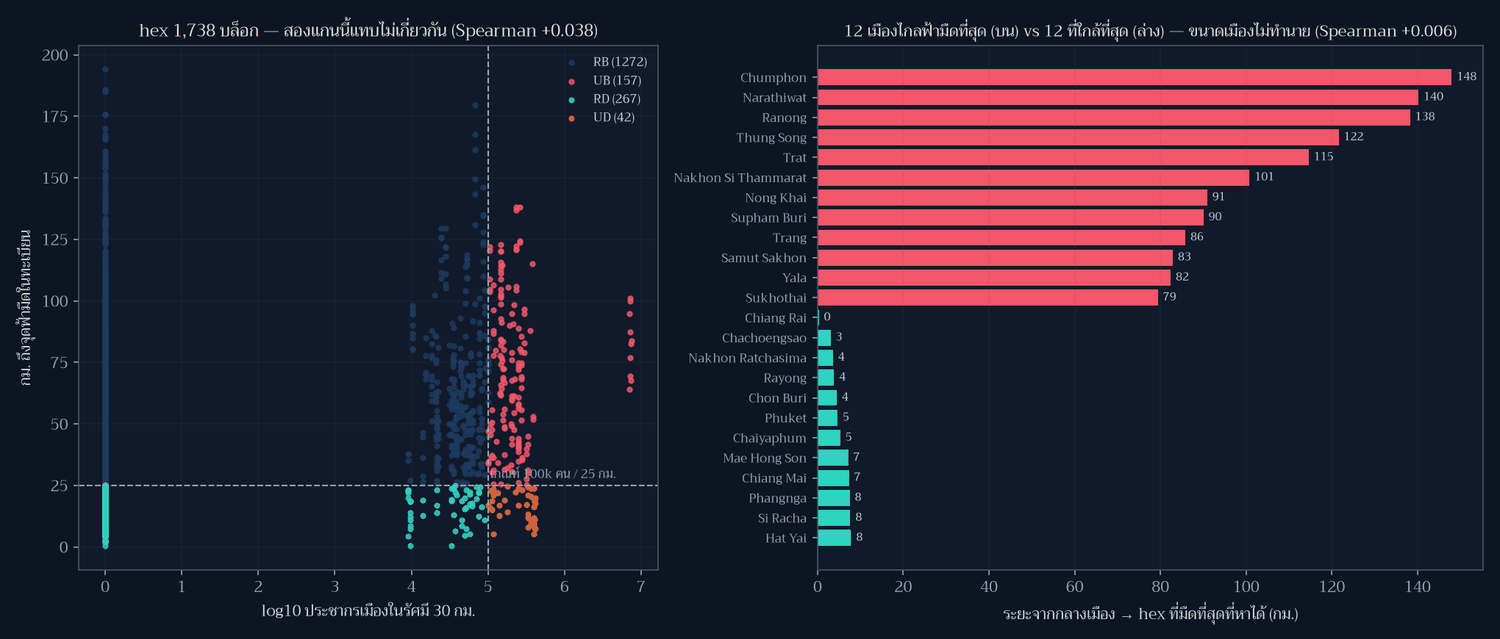
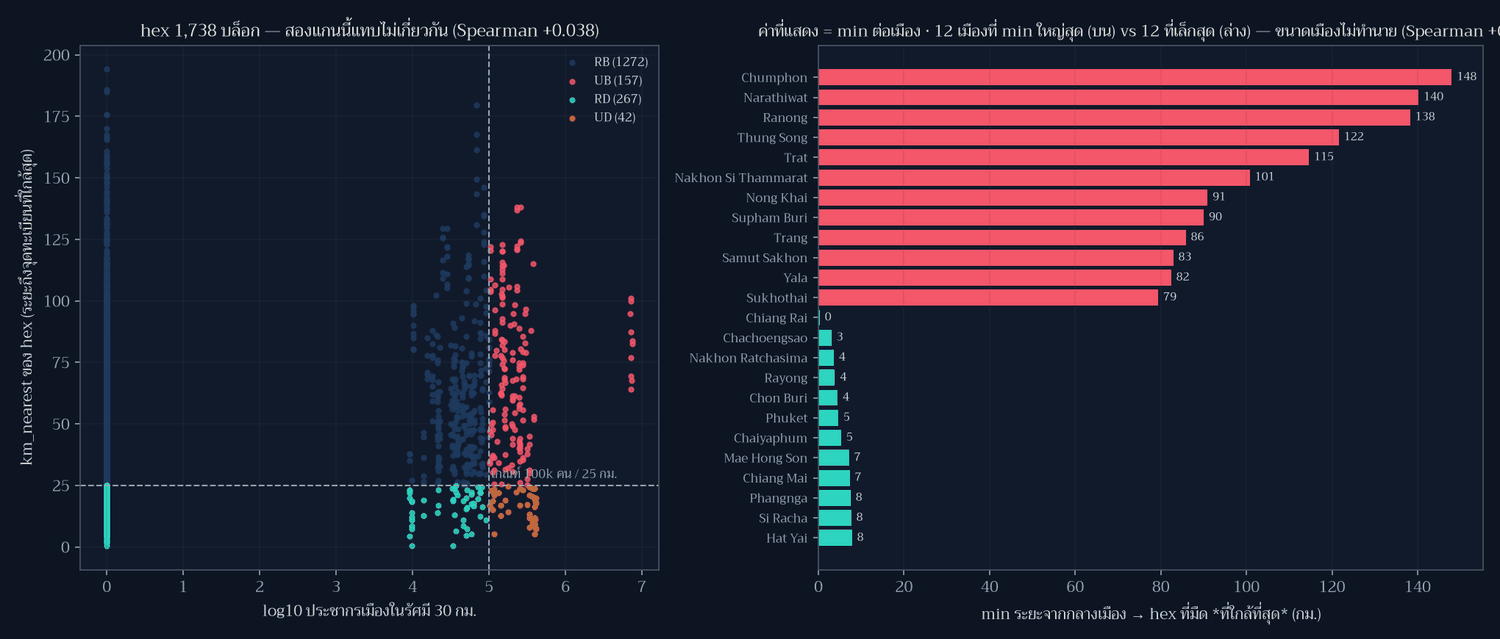
Built site for gh-pages

diff --git a/posts/day09-urban-rural/index.html b/posts/day09-urban-rural/index.html
@@ -284,17 +284,17 @@ pre > code.sourceCode > span > a:first-child::before { text-decoration: underlin
 </tbody>
 </table>
 <p>แปลว่าความมืดกับประชากรไม่ได้ <em>ต่อต้าน</em> กัน (correlation ≈ 0) แต่ <strong>ไม่ได้อยู่ที่เดียวกัน</strong> — จุดที่มืดกระจายแบบสุ่มต่อความหนาแน่นคน เพราะทะเบียน 83 จุดถูกตั้งด้วยเหตุผลอื่น (อุทยานฯ หอดูดาว สถานศึกษา) ไม่ใช่ด้วยจำนวนประชากรรอบข้าง ตามที่ Day 3 เคยพบว่าไม่มีที่ใดไกลเกิน 200 กม.</p>
-<p><strong>3. ระยะเดินทางจากกลางเมืองสู่ฟ้ามืด</strong> (มัธยฐาน 39.2 กม.)</p>
+<p><strong>3. ระยะจากกลางเมืองสู่ hex ที่มืด <em>ที่ใกล้ที่สุด</em></strong> — ค่าต่อเมืองคือ <code>min</code> เหนือ hex ที่มืด ทั้งหมด 309 เซลล์ (เกณฑ์ <code>km_nearest ≤ 25</code>) · <strong>มัธยฐานของ min = 39.2 กม.</strong></p>
 <table class="caption-top table">
 <thead>
 <tr class="header">
 <th>เมือง</th>
-<th>ระยะสู่ hex มืด</th>
+<th><code>min</code> ระยะสู่ hex มืด</th>
 </tr>
 </thead>
 <tbody>
 <tr class="odd">
-<td>เชียงราย (ใกล้ที่สุด)</td>
+<td>เชียงราย (<code>min</code> เล็กที่สุด)</td>
 <td><strong>0.3 กม.</strong> — ตัวเมืองติดเขตฟ้ามืดเลย</td>
 </tr>
 <tr class="even">
@@ -302,14 +302,20 @@ pre > code.sourceCode > span > a:first-child::before { text-decoration: underlin
 <td>63.3 กม.</td>
 </tr>
 <tr class="odd">
-<td>ชุมพร (ไกลที่สุด)</td>
+<td>ชุมพร (<code>min</code> ใหญ่ที่สุด)</td>
 <td><strong>148.0 กม.</strong></td>
 </tr>
 </tbody>
 </table>
 <p>15 เมืองจาก 79 อยู่ชิด hex มืดภายใน 10 กม. และมี 6 เมืองที่ต้องไปไกลเกิน 100 กม. และในกลุ่มที่ <em>ใกล้ที่สุด</em> ก็มีเมืองใหญ่อยู่ด้วย: ฉะเชิงเทรา 3.0 · นครราชสีมา 3.6 · ระยอง 3.9 · ชลบุรี 4.5 กม. — แปลว่า “เมืองกับฟ้ามืดอยู่ด้วยกันได้” ถ้าจุดทะเบียนถูกวางไว้ใกล้เมือง</p>
-<p>ข้อสังเกตที่ผมไม่คาดคิด: เมืองที่ไกลฟ้ามืดที่สุด 5 ใน 6 แห่งอยู่ภาคใต้ (ชุมพร 148 · นราธิวาส 140 · ระนอง 138 · ทุ่งสง 122 · นครศรีธรรมราช 101 กม.) อีกแห่งคือตราด 115 กม. และส่วนใหญ่เป็นเมืองเล็ก (ระนอง 24,561 คน · ชุมพร 85,686 คน) เพราะทะเบียนจุดฟ้ามืดลงใต้บางมาก — <strong>นี่คือปัญหาของ “ทะเบียน” ไม่ใช่ปัญหาของ “เมือง”</strong></p>
+<p>ข้อสังเกตที่ผมไม่คาดคิด: เมืองที่ <code>min</code> ใหญ่ที่สุด 6 แห่ง มี 5 เมืองอยู่ภาคใต้ (ชุมพร 148 · นราธิวาส 140 · ระนอง 138 · ทุ่งสง 122 · นครศรีธรรมราช 101 กม.) อีกแห่งคือตราด 115 กม. และส่วนใหญ่เป็นเมืองเล็ก (ระนอง 24,561 คน · ชุมพร 85,686 คน) เพราะทะเบียนจุดฟ้ามืดลงใต้บางมาก — <strong>นี่คือปัญหาของ “ทะเบียน” ไม่ใช่ปัญหาของ “เมือง”</strong></p>
 <p><img src="day09_compare.png" class="img-fluid"></p>
+<section id="วาดวย-min-mean-เพม-10-พ.ย.-2569" class="level3">
+<h3 class="anchored" data-anchor-id="วาดวย-min-mean-เพม-10-พ.ย.-2569">ว่าด้วย min / mean (เพิ่ม 10 พ.ย. 2569)</h3>
+<p>ค่าที่แสดงในส่วนนี้เป็น <strong><code>min</code> ต่อเมือง</strong> — “จากกลางเมืองนี้ ไป hex ที่มืด hex ที่ใกล้ที่สุดไกลแค่ไหน” ซึ่งตอบคำถามแบบประชาชน (“ผมต้องขับไกลแค่ไหนถึงจะเจอฟ้ามืด”) แต่ <strong>ไม่ใช่</strong> ค่าเดียวกับที่ Day 10 รายงาน เพราะ Day 10 ใช้ <strong><code>mean</code> ต่อจังหวัดเจ้าบ้าน</strong> — เฉลี่ย <code>km_nearest</code> ของ hex ทุกเซลล์ที่จุดทะเบียนของ จังหวัดนั้นให้บริการ อยู่คนละหน่วย (เมือง vs ผืนดิน) และคนละสถิติ (min vs mean)</p>
+<p>ตัวอย่างที่เห็นชัดที่สุดคือเชียงราย: <code>min</code> จากตัวเมือง = 0.3 กม. (อันดับ 1 ของ Day 9) แต่ <code>mean</code> ของ 59 เซลล์ที่เชียงรายเป็นเจ้าบ้าน = 49.2 กม. (อันดับ 14 จาก 33 จังหวัดใน Day 10) และสงขลา: <code>min</code> = 12.5 กม. (อันดับดี) ขณะที่ <code>mean</code> ของ catchment = 92.4 กม. (ไกลที่สุดอันดับ 2) ทั้งสองค่ามาจากฟิลด์ <code>km_nearest</code> ชุดเดียวกัน ไม่ขัดกัน — แค่ถามคนละคำถาม</p>
+<p>นับจากนี้ทุกครั้งที่รายงานระยะทาง ผมจะติดป้าย <code>min</code> / <code>mean</code> / <code>median</code> และบอกว่าคิดจากหน่วยอะไร (ดูตารางนิยามสถิติใน <code>day09_stats.json</code> → <code>metric_definitions</code>)</p>
+</section>
 </section>
 <section id="วธทำแบบยอ" class="level2">
 <h2 class="anchored" data-anchor-id="วธทำแบบยอ">วิธีทำแบบย่อ</h2>

diff --git a/index.html b/index.html
@@ -238,7 +238,7 @@ window.Quarto = {
 </a>
 </div>
 </div>
[2 lines of base64/hex data omitted]
 <div class="thumbnail"><a href="./posts/day09-urban-rural/index.html" class="no-external-icon">
 
 <img loading="lazy" src="./posts/day09-urban-rural/day09_urban_rural_preview.png" class="thumbnail-image">
